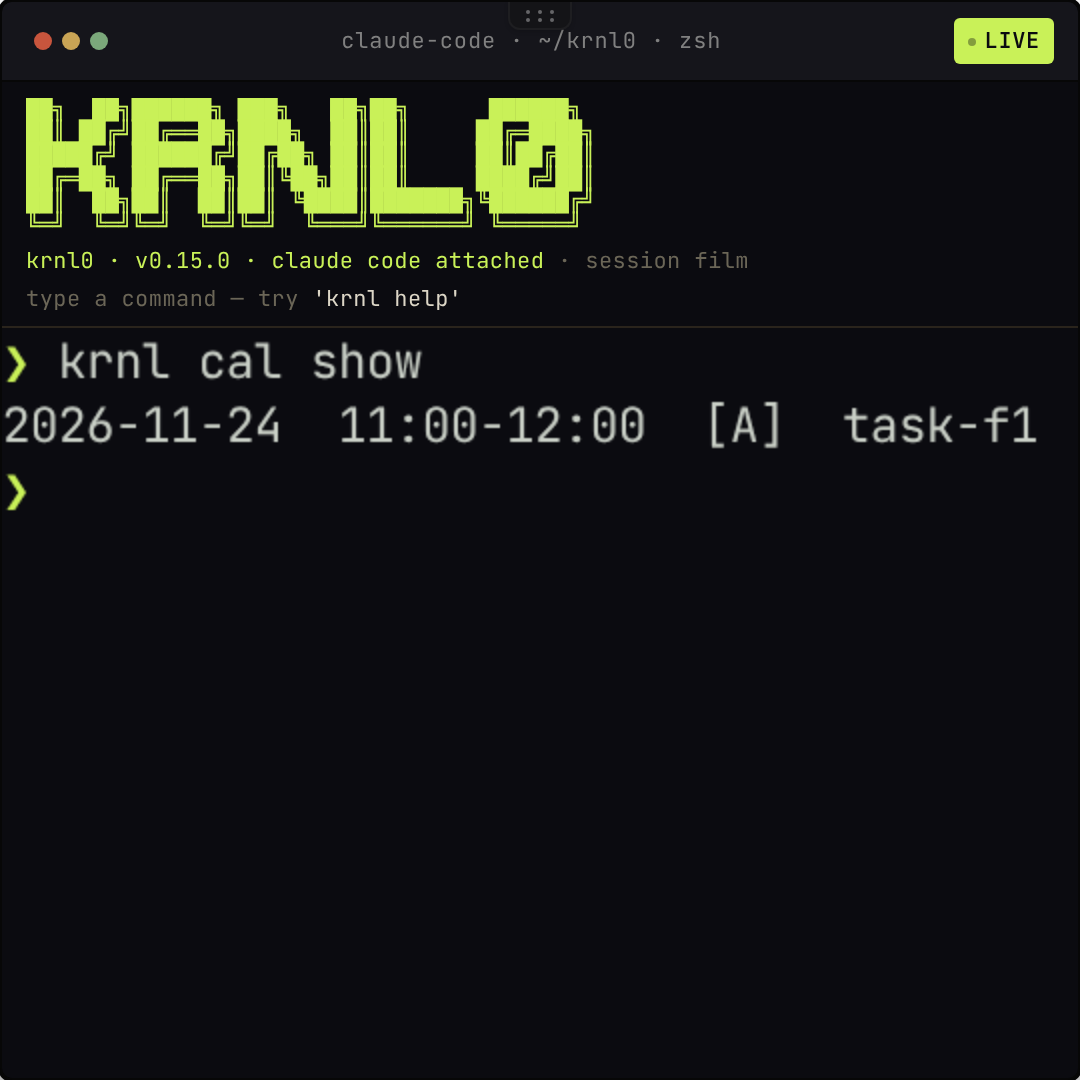
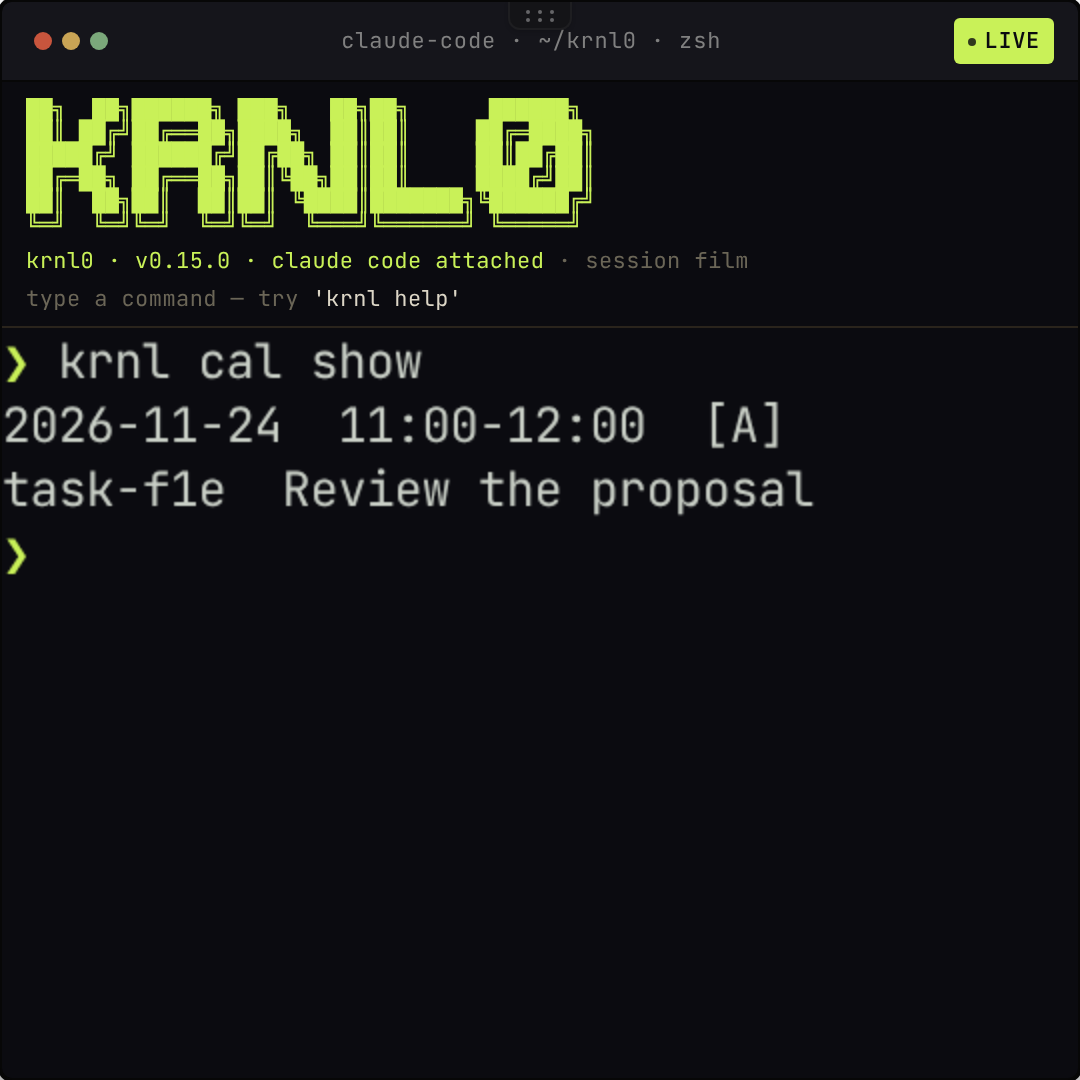
wip(marketing): carousel posts being retaken in light theme

diff --git a/marketing/posts/07-focus-sound/slides.html b/marketing/posts/07-focus-sound/slides.html
@@ -1,0 +1,76 @@
+<!doctype html><html lang="en"><head><meta charset="utf-8"><title>07 focus sound</title>
+<link rel="stylesheet" href="../_shared/brand.css">
+<style>
+ body{display:flex;flex-direction:column;gap:20px;width:1080px}
+ .t{position:absolute;left:64px;right:64px;top:170px}
+ .t .headline{font-size:116px}
+ .t .sub{margin-top:30px;max-width:900px;font-size:42px;opacity:.82}
+ .img{position:absolute;display:block}
+ .img.shadow{filter:drop-shadow(0 36px 44px rgba(0,0,0,.30)) drop-shadow(0 8px 14px rgba(0,0,0,.22))}
+ .chips{position:absolute;display:flex;gap:12px;flex-wrap:wrap}
+ .tag{position:absolute;font-family:var(--mono);font-weight:800;font-size:26px;letter-spacing:.02em}
+ .end .logo{position:absolute;left:64px;top:150px;width:200px;height:200px;border-radius:46px;box-shadow:0 24px 50px rgba(0,0,0,.25)}
+ .end .headline{position:absolute;left:64px;top:410px;font-size:128px}
+ .end .tiles{position:absolute;left:64px;top:890px}
+ .end .cta{position:absolute;left:64px;top:1070px}
+ .end .os{position:absolute;left:64px;top:1230px;font-family:var(--mono);font-weight:700;font-size:28px;opacity:.75}
+</style></head><body>
+
+<!-- 1 · hook -->
+<section class="slide lav" id="s1">
+  <div class="ghost" style="left:-30px;top:760px;font-size:430px;color:#0a0908">20:58</div>
+  <div class="bar"><div class="brand"><img src="../_shared/icon.svg" alt=""><span>@krnl0.app</span></div><span>1/6</span></div>
+  <div class="t"><div class="headline">Give your<br>focus a<br>soundtrack.</div></div>
+  <img class="img shadow" src="assets/radio-rain.png" style="left:440px;top:610px;width:500px" alt="">
+  <div class="chips" style="left:64px;top:1180px"><span class="chip">Built in</span></div>
+  <div class="swipe">swipe →</div>
+</section>
+
+<!-- 2 · the sounds -->
+<section class="slide paper" id="s2">
+  <div class="bar"><div class="brand"><img src="../_shared/icon.svg" alt=""><span>@krnl0.app</span></div><span>2/6</span></div>
+  <div class="t"><div class="headline">Tap a sound.<br>It plays.</div><div class="sub">Six sounds are built in. Or paste a YouTube link.</div></div>
+  <img class="img shadow" src="assets/radio-off.png" style="left:64px;top:690px;width:560px" alt="">
+  <div class="chips" style="left:690px;top:730px;width:330px;flex-direction:column;align-items:flex-start;gap:14px">
+    <span class="chip">Dark</span><span class="chip">Rain</span><span class="chip">Fire</span><span class="chip">Synth</span><span class="chip">White</span><span class="chip">Brown</span>
+  </div>
+  <div class="swipe">swipe →</div>
+</section>
+
+<!-- 3 · stack -->
+<section class="slide cyan" id="s3">
+  <div class="bar"><div class="brand"><img src="../_shared/icon.svg" alt=""><span>@krnl0.app</span></div><span>3/6</span></div>
+  <div class="t"><div class="headline">Stack them.</div><div class="sub">Rain, fire and a soft synth. Every sound keeps its own volume.</div></div>
+  <img class="img shadow" src="assets/radio-mix.png" style="left:290px;top:590px;width:500px" alt="">
+  <div class="swipe">swipe →</div>
+</section>
+
+<!-- 4 · tune -->
+<section class="slide coral" id="s4">
+  <div class="bar"><div class="brand"><img src="../_shared/icon.svg" alt=""><span>@krnl0.app</span></div><span>4/6</span></div>
+  <div class="t"><div class="headline">Tune every<br>sound.</div><div class="sub">Softness, density, reverb. All yours.</div></div>
+  <img class="img shadow" src="assets/radio-settings.png" style="left:320px;top:610px;width:440px" alt="">
+  <div class="swipe">swipe →</div>
+</section>
+
+<!-- 5 · focus block -->
+<section class="slide paper" id="s5">
+  <div class="ghost" style="left:-30px;top:860px;font-size:430px">25:00</div>
+  <div class="bar"><div class="brand"><img src="../_shared/icon.svg" alt=""><span>@krnl0.app</span></div><span>5/6</span></div>
+  <div class="t"><div class="headline">Press start.<br>Press play.</div><div class="sub">The Timer counts. The radio plays.</div></div>
+  <div class="win" style="left:64px;top:748px;width:440px;height:440px"><img src="assets/timer.png" alt=""></div>
+  <img class="img shadow" src="assets/radio-mix.png" style="left:616px;top:690px;width:400px" alt="">
+  <div class="swipe">swipe →</div>
+</section>
+
+<!-- 6 · end -->
+<section class="slide acid end" id="s6">
+  <img class="logo" src="../_shared/icon.svg" alt="">
+  <div class="headline">Focus has<br>a sound.</div>
+  <div class="sub" style="position:absolute;left:64px;top:700px;font-size:44px;max-width:760px">A radio built into your canvas.</div>
+  <div class="tiles"><b>K</b><b>R</b><b>N</b><b>L</b><b>0</b></div>
+  <div class="cta">Free download · link in bio</div>
+  <div class="os">Windows · macOS · Linux</div>
+</section>
+<script>document.querySelectorAll("img.img").forEach(i=>{i.style.borderRadius=(parseFloat(i.style.width)*14/300)+"px"});</script>
+</body></html>

diff --git a/marketing/posts/09-every-button-a-command/.capture/board.js b/marketing/posts/09-every-button-a-command/.capture/board.js
@@ -39,21 +39,32 @@
 
   // ── the stand-in shell ──
   const PROMPT = '\x1b[38;2;201;241;88m❯\x1b[0m ';
-  const state = { cb: null, buf: '' };
+  const WRAP = 37;   // columns that fit the window at the filmed size; long output is wrapped on spaces (xterm in this preview wraps wider)
+  const state = { cb: null, buf: '', col: 2 };
   window.__OUT = {};
+  const wrap = (text) => text.split('\n').map((line) => {
+    const out = []; let cur = '';
+    for (const tok of line.match(/\S+|\s+/g) || ['']) {
+      if (cur.length + tok.length > WRAP && cur.trim()) { out.push(cur.replace(/\s+$/, '')); cur = /^\s+$/.test(tok) ? '' : tok; } else cur += tok;
+    }
+    out.push(cur); return out.join('\r\n');
+  }).join('\r\n');
   const run = (cmd) => {
     if (cmd === 'clear') return '\x1b[2J\x1b[H' + PROMPT;
     const out = window.__OUT[cmd];
-    return '\r\n' + (out === undefined ? `krnl: no recorded output for: ${cmd}` : out.replace(/\n/g, '\r\n')) + '\r\n' + PROMPT;
+    return '\r\n' + (out === undefined ? `krnl: no recorded output for: ${cmd}` : wrap(out)) + '\r\n' + PROMPT;
   };
   const patch = (v) => {
     v.ptyCreate = async () => ({ sessionId: 'film', motd: '' });
     v.onPtyData = (_id, cb) => { state.cb = cb; setTimeout(() => cb(PROMPT), 50); return () => {}; };
     v.ptyWrite = (_id, data) => {
       for (const ch of data) {
-        if (ch === '\r') { const c = state.buf.trim(); state.buf = ''; state.cb && state.cb(c === 'clear' ? run(c) : run(c)); }
-        else if (ch === '\x7f') { if (state.buf) { state.buf = state.buf.slice(0, -1); state.cb && state.cb('\b \b'); } }
-        else if (ch >= ' ') { state.buf += ch; state.cb && state.cb(ch); }
+        if (ch === '\r') { const c = state.buf.trim(); state.buf = ''; state.col = 2; state.cb && state.cb(run(c)); }
+        else if (ch >= ' ') {
+          state.buf += ch;
+          if (state.col >= WRAP) { state.cb && state.cb('\r\n'); state.col = 0; }
+          state.cb && state.cb(ch); state.col++;
+        }
       }
     };
   };

diff --git a/marketing/posts/05-planned-vs-spent/slides/slide-1.html b/marketing/posts/05-planned-vs-spent/slides/slide-1.html
@@ -1,0 +1,13 @@
+<!doctype html><html><head><meta charset="utf-8"><link rel="stylesheet" href="slides.css"></head><body>
+<div class="slide acid" id="s"><div class="bar"><div class="brand"><img src="../../_shared/icon.svg"><span>KRNL0</span></div><span>1/8</span></div>
+<span class="chip kicker">what a to-do list never shows</span>
+<div class="h" style="top:262px;font-size:166px">Planned 1h.<br>Took <span class="hi">2h05.</span></div>
+<div style="position:absolute;left:72px;right:72px;top:760px">
+  <div class="mono" style="display:flex;justify-content:space-between;font-size:30px;margin-bottom:14px"><span>PLANNED</span><span>1h</span></div>
+  <div style="height:64px;width:436px;border-radius:18px;background:rgba(10,9,8,.28)"></div>
+  <div class="mono" style="display:flex;justify-content:space-between;font-size:30px;margin:44px 0 14px"><span>TOOK</span><span>2h05</span></div>
+  <div style="height:64px;width:936px;border-radius:18px;background:var(--ink);position:relative"><div style="position:absolute;left:436px;right:0;top:0;bottom:0;border-radius:0 18px 18px 0;background:var(--coral)"></div></div>
+  <div style="margin-top:34px;display:flex;justify-content:flex-end"><span class="chip" style="background:var(--coral);color:var(--ink)">+1h05 more than planned</span></div>
+</div>
+<div class="sub" style="top:1170px;font-size:46px;max-width:760px">The one thing a plain to-do list can&rsquo;t tell you.</div>
+<div class="swipe">swipe <svg width="40" height="22" viewBox="0 0 40 22" fill="none" stroke="currentColor" stroke-width="3.5" stroke-linecap="round" stroke-linejoin="round"><path d="M2 11h34M27 3l9 8-9 8"/></svg></div></div></body></html>

diff --git a/marketing/posts/05-planned-vs-spent/slides/slide-5.html b/marketing/posts/05-planned-vs-spent/slides/slide-5.html
@@ -1,0 +1,11 @@
+<!doctype html><html><head><meta charset="utf-8"><link rel="stylesheet" href="slides.css"></head><body>
+<div class="slide ink" id="s"><div class="bar"><div class="brand"><img src="../../_shared/icon.svg"><span>KRNL0</span></div><span>5/8</span></div>
+<span class="chip kicker" style="background:var(--acid);color:var(--ink)">accuracy · last 7 days</span>
+<div class="h" style="top:250px;font-size:392px;line-height:.82;color:var(--acid);letter-spacing:-0.07em">&times;1.47</div>
+<div class="sub" style="top:700px;color:var(--paper);font-size:62px;line-height:1.12;letter-spacing:-0.03em">Tasks took almost<br>1.5&times; the estimate.</div>
+<div class="mono" style="position:absolute;left:72px;right:72px;top:930px;display:flex;gap:18px">
+  <div style="flex:1;border:3px solid rgba(244,239,226,.25);border-radius:26px;padding:26px 30px"><div style="font-size:24px;opacity:.6;letter-spacing:.06em">PLANNED</div><div style="font-size:64px;margin-top:6px">15h45</div></div>
+  <div style="flex:1;border:3px solid var(--acid);border-radius:26px;padding:26px 30px;color:var(--acid)"><div style="font-size:24px;opacity:.75;letter-spacing:.06em">TRACKED</div><div style="font-size:64px;margin-top:6px">23h10</div></div>
+</div>
+<div class="sub" style="top:1160px;color:var(--paper);opacity:.75;font-size:38px;max-width:780px">Now you can plan with real numbers.</div>
+<div class="swipe">swipe <svg width="40" height="22" viewBox="0 0 40 22" fill="none" stroke="currentColor" stroke-width="3.5" stroke-linecap="round" stroke-linejoin="round"><path d="M2 11h34M27 3l9 8-9 8"/></svg></div></div></body></html>

diff --git a/marketing/posts/02-plan-in-one-line/scripts/board.js b/marketing/posts/02-plan-in-one-line/scripts/board.js
@@ -9,7 +9,7 @@
     const byKind = (k) => nodes.find((n) => n.kind === k);
     const place = (n, x, y, w, h) => { n.position = { x, y }; n.config = { ...n.config, canvasSize: { width: w, height: h } }; };
     const todo = byKind('todo'), cal = byKind('calendar');
-    place(todo, 0, 0, 540, 560); place(cal, 100, 0, 540, 560);
+    place(todo, 0, 0, 540, window.__TH || 260); place(cal, 100, 0, 540, window.__CH || 340);
     // everything else is parked far away (and hidden by CSS in the capture)
     byKind('habit').position = { x: 4000, y: 0 }; byKind('pomo').position = { x: 4100, y: 0 };
     byKind('clock').position = { x: 4200, y: 0 }; byKind('analytics').position = { x: 4300, y: 0 }; byKind('term').position = { x: 4400, y: 0 };
@@ -30,7 +30,7 @@
     plan('t-invoice', 'Send the invoice', 30, null);
     plan('t-milk', 'Buy oat milk', 10, null);
     if (window.__REVIEW) plan('t-review', 'Review the proposal', 60, at(11, 0));   // last, so it gets the colour a plan added live gets
-    cal.config = { ...cal.config, view: 'day', hourRange: { start: 9, end: 17 } };
+    cal.config = { ...cal.config, view: 'day', hourRange: { start: (window.hourRange || [10, 16])[0], end: (window.hourRange || [10, 16])[1] } };
     cal.state = { ...cal.state, zoom: window.__ZOOM || 6 };
     b.edges = []; b.layoutMode = 'free';
     return b;

diff --git a/marketing/posts/01-a-day-on-krnl0/scripts/board.js b/marketing/posts/01-a-day-on-krnl0/scripts/board.js
@@ -20,7 +20,7 @@
     task('t-gym', 'Gym', 60, 15, 0, 65);
     task('t-milk', 'Buy oat milk', 10, null, 0);
     const cal = nodes.find(n => n.kind === 'calendar');
-    cal.config = { ...cal.config, view: 'day', hourRange: { start: 9, end: 19 }, canvasSize: { width: 540, height: 760 } };
+    cal.config = { ...cal.config, view: 'day', hourRange: { start: 9, end: 19 }, canvasSize: { width: 540, height: 468 } };
     cal.state = { ...cal.state, zoom: window.__CALZOOM || 5 };
     const day = back => { const d = new Date('2026-11-24T12:00:00'); d.setDate(d.getDate() - back); return `${d.getFullYear()}-${pad(d.getMonth() + 1)}-${pad(d.getDate())}`; };
     const run = (a, z) => Array.from({ length: z - a + 1 }, (_, i) => day(a + i));
@@ -50,7 +50,7 @@
     }
     const an = nodes.find(n => n.kind === 'analytics');
     if (an) an.state = { ...an.state, view: 'summary', rangeDays: 7 };
-    const size = { todo: [540, 280], habit: [540, 360], pomo: [540, 540] };
+    const size = { todo: [540, 280], habit: [540, 360], pomo: [540, 440], analytics: [540, 468] };
     for (const n of nodes) if (n.isMother && size[n.kind]) n.config = { ...n.config, canvasSize: { width: size[n.kind][0], height: size[n.kind][1] } };
     b.edges = []; b.layoutMode = 'free';
     return b;

diff --git a/marketing/posts/05-planned-vs-spent/slides/slide-2.html b/marketing/posts/05-planned-vs-spent/slides/slide-2.html
@@ -1,0 +1,8 @@
+<!doctype html><html><head><meta charset="utf-8"><link rel="stylesheet" href="slides.css"></head><body>
+<div class="slide lav" id="s"><div class="bar"><div class="brand"><img src="../../_shared/icon.svg"><span>KRNL0</span></div><span>2/8</span></div>
+<div class="h" style="top:170px;font-size:122px">A list tells<br>you what.<br>Not how long.</div>
+<div class="sub" style="top:540px;font-size:44px">You write the plan. Then you guess the time.</div>
+<div class="shot" style="left:140px;top:690px;width:800px"><img src="../assets/todo.png"></div>
+<div class="cap" style="right:72px;top:1215px;display:none"></div>
+<span class="chip" style="position:absolute;right:140px;top:1222px;background:var(--ink)">&uarr; just a guess</span>
+<div class="swipe">swipe <svg width="40" height="22" viewBox="0 0 40 22" fill="none" stroke="currentColor" stroke-width="3.5" stroke-linecap="round" stroke-linejoin="round"><path d="M2 11h34M27 3l9 8-9 8"/></svg></div></div></body></html>

diff --git a/marketing/posts/05-planned-vs-spent/slides/slides.css b/marketing/posts/05-planned-vs-spent/slides/slides.css
@@ -1,0 +1,12 @@
+
+@import url("../../_shared/brand.css");
+.slide { font-family: var(--sans); }
+.pad { position: absolute; left: 72px; right: 72px; }
+.kicker { position: absolute; left: 72px; top: 168px; }
+.h { position: absolute; left: 72px; right: 72px; font-weight: 800; letter-spacing: -0.055em; line-height: .94; }
+.sub { position: absolute; left: 72px; right: 72px; font-weight: 600; font-size: 44px; line-height: 1.22; letter-spacing: -0.02em; }
+.shot { position: absolute; filter: drop-shadow(0 38px 46px rgba(0,0,0,.30)) drop-shadow(0 8px 14px rgba(0,0,0,.22)); }
+.shot img { display: block; width: 100%; height: auto; }
+.hi { display: inline-block; background: var(--ink); color: var(--acid); border-radius: 26px; padding: 0 .16em .06em; margin-left: -.04em; }
+.mono { font-family: var(--mono); font-weight: 800; }
+.cap { position: absolute; font-family: var(--mono); font-weight: 800; font-size: 26px; letter-spacing: .04em; text-transform: uppercase; }

diff --git a/marketing/posts/05-planned-vs-spent/slides/slide-6.html b/marketing/posts/05-planned-vs-spent/slides/slide-6.html
@@ -1,0 +1,6 @@
+<!doctype html><html><head><meta charset="utf-8"><link rel="stylesheet" href="slides.css"></head><body>
+<div class="slide paper" id="s"><div class="bar"><div class="brand"><img src="../../_shared/icon.svg"><span>KRNL0</span></div><span>6/8</span></div>
+<div class="h" style="top:170px;font-size:128px">Every evening,<br>a recap.</div>
+<div class="sub" style="top:462px;max-width:900px">What got done, what was recorded, and how it went against the plan.</div>
+<div class="shot" style="left:140px;top:640px;width:800px"><img src="../assets/recap.png"></div>
+<div class="swipe">swipe <svg width="40" height="22" viewBox="0 0 40 22" fill="none" stroke="currentColor" stroke-width="3.5" stroke-linecap="round" stroke-linejoin="round"><path d="M2 11h34M27 3l9 8-9 8"/></svg></div></div></body></html>

diff --git a/marketing/posts/05-planned-vs-spent/slides/slide-7.html b/marketing/posts/05-planned-vs-spent/slides/slide-7.html
@@ -1,0 +1,6 @@
+<!doctype html><html><head><meta charset="utf-8"><link rel="stylesheet" href="slides.css"></head><body>
+<div class="slide lav" id="s"><div class="bar"><div class="brand"><img src="../../_shared/icon.svg"><span>KRNL0</span></div><span>7/8</span></div>
+<div class="h" style="top:170px;font-size:128px">Every Monday,<br>a look back.</div>
+<div class="sub" style="top:462px;max-width:900px">Last week, day by day. Nothing carries over as debt.</div>
+<div class="shot" style="left:140px;top:600px;width:800px"><img src="../assets/week.png"></div>
+<div class="swipe">swipe <svg width="40" height="22" viewBox="0 0 40 22" fill="none" stroke="currentColor" stroke-width="3.5" stroke-linecap="round" stroke-linejoin="round"><path d="M2 11h34M27 3l9 8-9 8"/></svg></div></div></body></html>

diff --git a/marketing/posts/05-planned-vs-spent/slides/slide-8.html b/marketing/posts/05-planned-vs-spent/slides/slide-8.html
@@ -1,0 +1,7 @@
+<!doctype html><html><head><meta charset="utf-8"><link rel="stylesheet" href="slides.css"></head><body>
+<div class="slide acid" id="s"><div class="bar"><div class="brand"><img src="../../_shared/icon.svg"><span>KRNL0</span></div><span>8/8</span></div>
+<div class="h" style="top:230px;font-size:190px;line-height:.88">Plan it.<br>Time it.<br>See it.</div>
+<div style="position:absolute;left:72px;top:880px"><div class="tiles"><b>K</b><b>R</b><b>N</b><b>L</b><b>0</b></div></div>
+<div style="position:absolute;left:72px;top:1060px"><span class="cta">Free download &middot; link in bio</span></div>
+<div class="mono" style="position:absolute;left:72px;top:1190px;font-size:28px;letter-spacing:.04em">Windows &middot; macOS &middot; Linux</div>
+</div></body></html>

diff --git a/marketing/posts/05-planned-vs-spent/slides/slide-4.html b/marketing/posts/05-planned-vs-spent/slides/slide-4.html
@@ -1,0 +1,6 @@
+<!doctype html><html><head><meta charset="utf-8"><link rel="stylesheet" href="slides.css"></head><body>
+<div class="slide coral" id="s"><div class="bar"><div class="brand"><img src="../../_shared/icon.svg"><span>KRNL0</span></div><span>4/8</span></div>
+<div class="h" style="top:170px;font-size:128px">Then, the<br>real numbers.</div>
+<div class="sub" style="top:462px">Planned vs spent, task by task and day by day.</div>
+<div class="shot" style="left:90px;top:560px;width:720px"><img src="../assets/plan_vs.png"></div>
+<div class="swipe">swipe <svg width="40" height="22" viewBox="0 0 40 22" fill="none" stroke="currentColor" stroke-width="3.5" stroke-linecap="round" stroke-linejoin="round"><path d="M2 11h34M27 3l9 8-9 8"/></svg></div></div></body></html>
